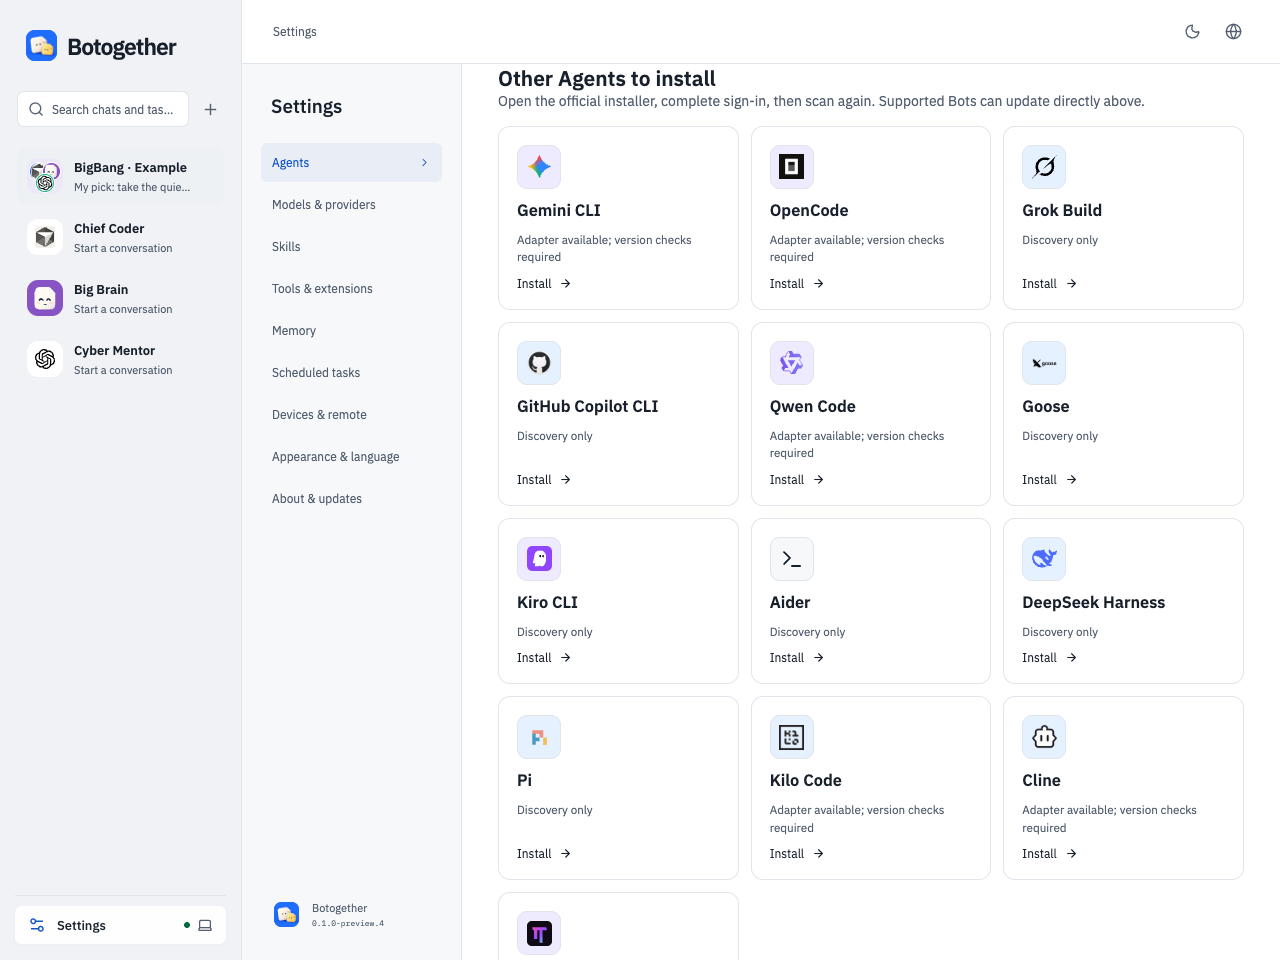
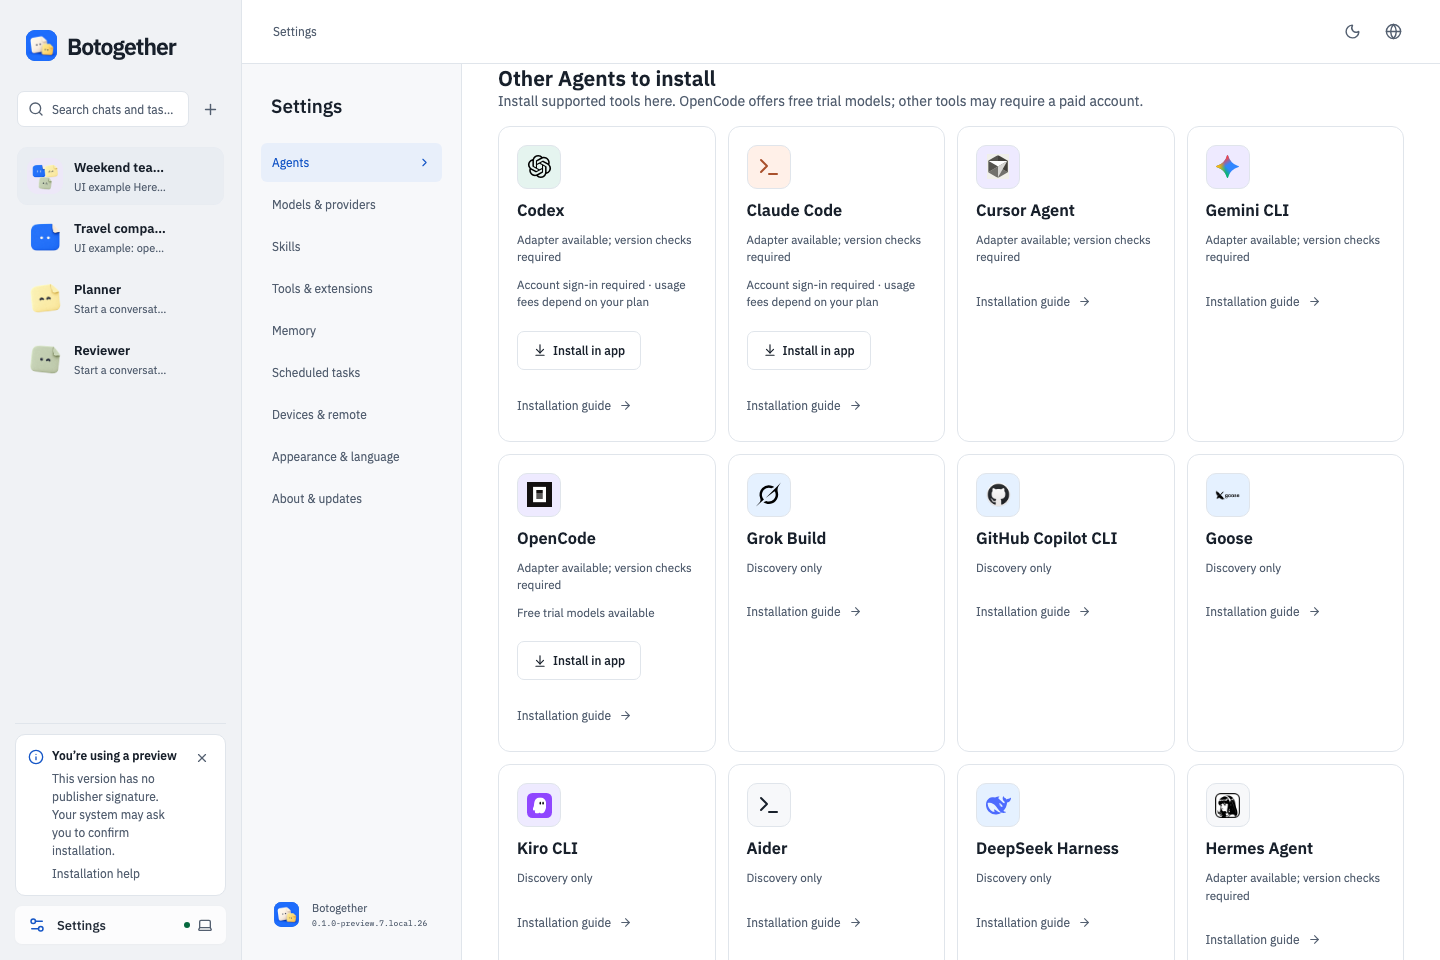
docs: prepare V2.3 desktop preview installation guide [skip ci]

diff --git a/README.md b/README.md
@@ -5,11 +5,22 @@
 
 Botogether brings the coding agents on your computer into direct and group chats. Give each bot a role, choose a project folder, and ask for a result. Your agents execute the work; Botogether keeps conversations, permissions, files and review history together.
 
-**Unsigned macOS / Windows preview:** [Download v0.1.0-preview.7 DMG](https://github.com/DmiyDing/botogether/releases/download/v0.1.0-preview.7/Botogether-0.1.0-preview.7-mac-arm64.dmg). Intel Mac preview.7 is experimental: isolated Rosetta daemon startup passed; native Intel GUI and upgrades remain pending. Windows remains on preview.2; no new Windows package is included. This is an unsigned, unnotarized public preview, not a stable release.
+**Historical public downloads (unsigned previews):** [Download v0.1.0-preview.7 DMG](https://github.com/DmiyDing/botogether/releases/download/v0.1.0-preview.7/Botogether-0.1.0-preview.7-mac-arm64.dmg). Intel Mac preview.7 is experimental: isolated Rosetta daemon startup passed; native Intel GUI and upgrades remain pending. Windows remains on preview.2; no new Windows package is included. This is an unsigned, unnotarized public preview, not a stable release.
+
+> [!IMPORTANT]
+> **First installation blocked? Read this first.** This preview has no Apple Developer ID signature/notarization or Windows publisher signature. Download only from the [official Releases](https://github.com/DmiyDing/botogether/releases) and compare the checksums.
+>
+> **Mac:** Drag Botogether into Applications and try opening it once → **System Settings → Privacy & Security → Open Anyway** beside the Botogether notice → confirm as prompted and open it again. [Apple's illustrated guide](https://support.apple.com/en-us/102445)
+>
+> **Windows:** For “Windows protected your PC,” verify the source, then choose **More info → Run anyway** when offered. If the option is missing, or Smart App Control or organizational policy blocks it, stop and report the exact notice; keep protections enabled. [Microsoft guidance](https://learn.microsoft.com/en-us/windows/apps/package-and-deploy/smartscreen-reputation)
+>
+> Do not disable Gatekeeper, SmartScreen or antivirus. A damaged-app or malware warning calls for checking the download and integrity, not dismissing the warning.
 
 This repository contains download documentation and release assets; application source is private. No private repository access, Node.js or npm is needed to install the desktop app. No npm package has been published.
 
 > **Download status:** All six Mac preview.7 attachments were downloaded anonymously in full and verified against the reviewed byte counts and SHA-256 hashes. Windows remains preview.2; no new Windows build or acceptance is included.
+
+> **V2.3 candidate — not published yet:** Mac Apple Silicon and Windows x64 installers have passed local validation, including native installation, free-model first tasks and upgrades. The screenshots below show local.26. The links below still point to historical public releases; they do not contain all of these changes. Please wait for the new release notes before downloading for the new onboarding flow.
 
 ## Why Botogether
 
@@ -19,25 +30,23 @@ This repository contains download documentation and release assets; application 
 
 ## Interface preview
 
-English-mode promotional examples. The group conversation is adapted from a supplied transcript and clearly labeled as an example; it does not claim a live model run. Browse the Agent catalog to choose your local tools.
+Captured from the **V2.3 local.26 interface** in English. These isolated UI examples contain no private conversations. Example dialogue and hand-written files illustrate the interface, not live AI delivery or performance claims.
 
-![Create your first assistant](assets/screenshots/en/welcome.png)
+![Start with a free assistant](assets/screenshots/en/welcome.png)
 
-**Create your assistant.** Connect an installed Agent and give the bot a role. The original paper mascot is a stable identity; animated avatars are future work.
+**No Agent installed? Start for free.** Install OpenCode inside the app, then choose an available free trial model. Paper companions greet, blink and follow the pointer; a still image cannot show the animation.
 
-![Group chat with your bot team](assets/screenshots/en/group.png)
+![Plan together in a group chat](assets/screenshots/en/group.png)
 
-**One conversation, multiple bots.** Use roles and mentions to coordinate work. This labeled discussion example does not prove a delivered project.
+**Your bots. One team.** Discuss ideas, assign roles and keep the conversation together. This dialogue is clearly marked as a UI example.
 
-![Explore local Agents](assets/screenshots/en/agents.png)
+![Install supported Agents inside the app](assets/screenshots/en/agents.png)
 
-**Bring your local tools.** Discover installed Agents and inspect their individual setup and control capabilities.
+**Set up without the detour.** OpenCode, Codex and Claude Code offer in-app installation on supported systems. Other entries have explicit installation guides. Installing an Agent does not include its account or paid model usage.
 
-![Create and preview visual deliverables](assets/screenshots/en/showcase.png)
+![Read and download a Markdown file](assets/screenshots/en/showcase.png)
 
-**Create, preview and download images.** English localized illustration of the user-supplied Chinese screenshot: a model produces a poster and the conversation offers an image preview and original download. This AI-translated illustration is not a real English model-run receipt. Image generation depends on the chosen Agent/model/tools; the task may still need verification.
-
-The first three screenshots use isolated examples; the final image is an AI-localized illustration of a user-authorized screenshot. See the release notes for the features available in each download.
+**Open a file and keep refining.** The current reader renders headings, checklists and tables, with source and download controls. This hand-written sample is not an AI-generated deliverable.
 
 ## What you can do
 
@@ -55,7 +64,7 @@ The first three screenshots use isolated examples; the final image is an AI-loca
 | --- | --- | --- |
 | Mac with Apple M-series chip | [v0.1.0-preview.7 DMG](https://github.com/DmiyDing/botogether/releases/download/v0.1.0-preview.7/Botogether-0.1.0-preview.7-mac-arm64.dmg) | Open the DMG, drag Botogether into Applications, then open it from Applications. |
 | Mac with Intel processor | [Experimental DMG](https://github.com/DmiyDing/botogether/releases/download/v0.1.0-preview.7/Botogether-0.1.0-preview.7-mac-x64.dmg) | Drag into Applications; preview.7 passed isolated Rosetta startup; native Intel GUI and upgrades remain pending. |
-| Windows x64 | [Experimental EXE](https://github.com/DmiyDing/botogether/releases/download/v0.1.0-preview.2/Botogether-0.1.0-preview.2-win-x64.exe) | Run the installer; unsigned, with GUI and upgrade validation pending. |
+| Windows x64 | [Awaiting the new preview](https://github.com/DmiyDing/botogether/releases) | The V2.3 candidate passed local validation. Historical preview.2 has a known language-resource/blank-window issue; it is not recommended for first use. |
 
 [Release notes](https://github.com/DmiyDing/botogether/releases/tag/v0.1.0-preview.7) · [ZIP alternative](https://github.com/DmiyDing/botogether/releases/download/v0.1.0-preview.7/Botogether-0.1.0-preview.7-mac-arm64.zip) · [SHA256SUMS](https://github.com/DmiyDing/botogether/releases/download/v0.1.0-preview.7/Botogether-0.1.0-preview.7-mac-arm64-SHA256SUMS.txt)
 
@@ -76,11 +85,13 @@ On Windows, use PowerShell `Get-FileHash -Algorithm SHA256 filename` to check th
 
 ## Your first task
 
-1. Open **Settings → Agents**. Botogether detects supported local installations. The desktop package does not bundle Codex, Claude or Cursor. Follow the official setup/sign-in links in the app, then scan again.
-2. Create a bot from the sidebar `+` menu. Choose a name and an available local agent.
-3. Open its chat and choose a project folder. Try: “Read this project and list three improvements. Do not change files yet.”
-4. Send your message and inspect any permission requests. Model use is billed by your agent/provider; Botogether does not include model credits.
-5. Inspect replies and files. To collaborate, create a group, choose members and a shared folder, then state who should implement and who should review.
+The following in-app installation flow is available in the validated V2.3 candidate; historical downloads may not include it.
+
+1. **No AI tools installed:** click **Start for free**. OpenCode downloads and is checked inside the app; no Node.js, npm or terminal is needed.
+2. Choose a currently available **free trial model**, then click **Start chatting**. The app rechecks availability and never silently switches to a paid model.
+3. **Already have an Agent:** create an assistant and select the detected tool. Complete account sign-in if requested.
+4. Try a small task: “Create a weekend checklist.” Open the file, then ask for a revision. Inspect permissions and the actual result.
+5. Add teammates when useful. Choose who should prepare the result and who should check it. More members can add usage and coordination costs.
 
 Read [Getting started](docs/getting-started.md), [Help and updates](docs/troubleshooting.md), and [Privacy](docs/privacy.md).
 
@@ -127,7 +138,7 @@ Botogether-owned software uses a [proprietary distribution license](LICENSE.md).
 
 ## Release status
 
-All three targets are public test previews. Earlier Apple Silicon candidates have local installation evidence; this release passed isolated packaged daemon checks and installer content verification. Final GUI/upgrade and native Intel validation remain pending; Windows evidence is for its older version. No Apple Developer ID / notarization or Windows publisher certificate is currently available.
+The V2.3 local.26 Apple Silicon Mac and Windows x64 candidates passed local native installation, free-model first tasks, package audits and upgrade acceptance. They have not been published; historical download links do not refer to these candidates. Intel Mac and Windows ARM64 were not accepted on native devices in this round. Apple Developer ID / notarization and Windows publisher signing are unavailable; this must be disclosed for a public preview, which is not a production-stable release.
 
 ## Acknowledgments
 

diff --git a/docs/getting-started.md b/docs/getting-started.md
@@ -2,17 +2,21 @@
 
 ## A first useful result / 第一个有用的结果
 
-Apple Silicon Mac users can [download v0.1.0-preview.5 DMG](https://github.com/DmiyDing/botogether/releases/download/v0.1.0-preview.5/Botogether-0.1.0-preview.5-mac-arm64.dmg). Open it, drag Botogether into Applications, and read the unsigned-preview installation help if macOS blocks the first launch. Choose Intel Mac preview.5 or Windows x64 preview.2 experimental downloads from the [release page](https://github.com/DmiyDing/botogether/releases); Windows GUI and upgrades remain pending. Repository source archives are not application installers.
+Get the available installers from the [release page](https://github.com/DmiyDing/botogether/releases) and read the [unsigned-preview installation help](troubleshooting.md). The V2.3 local.26 candidate is validated locally but not yet public; historical downloads may not include the flow below. The old Windows preview.2 has a known blank-window issue; wait for the new preview rather than using it for first setup. Repository source archives are not installers.
 
-Apple Silicon Mac 用户可[下载 v0.1.0-preview.5 DMG](https://github.com/DmiyDing/botogether/releases/download/v0.1.0-preview.5/Botogether-0.1.0-preview.5-mac-arm64.dmg)，打开并拖入 Applications。如果 macOS 拦截首次启动，请查看未签名预览版的安装帮助。Intel Mac preview.5 / Windows x64 preview.2 可从[发布页](https://github.com/DmiyDing/botogether/releases)选择实验性试用包，Windows 界面与升级仍待验证；仓库源码压缩包不能安装应用。
+从[发行页](https://github.com/DmiyDing/botogether/releases)选择安装包，并先看[未签名预览安装帮助](troubleshooting.md)。V2.3 local.26 候选已通过本地验收但尚未公开，旧版不一定有下述流程。旧 Windows preview.2 存在已知白屏问题，请等待新版预览，不建议用于首次体验。Source code 压缩包不是安装包。
 
-Open **Settings → Agents**, check local installations and follow your agent’s login guidance. Detection of a version does not prove authentication or every control capability.
+**No Agent installed:** click **Start for free** → wait for OpenCode to download and be checked inside the app → choose an available free trial model → **Start chatting**. No Node.js, npm or terminal is needed. Availability is rechecked and never silently replaced by a paid model.
 
-打开**设置 → 智能体**检测安装，按所选智能体的引导完成登录。检测到版本，不等于已登录或所有控制能力都已验证。
+**没装过 AI 工具：** 点 **免费开始** → 等待应用下载并检查 OpenCode → 选择可用免费体验模型 → **开始聊天**。不需要 Node.js、npm 或终端。免费名额会重新检查，不会自动改用付费模型。
 
-Create a bot from `+`. Choose a local agent; optional instructions describe its long-term role. Open the chat and choose the folder for this conversation. The selected folder determines where tasks execute; selecting a bot alone does not select a project. Start with a read-only request and inspect the answer before requesting changes.
+**Already have an Agent:** create an assistant from `+` and select a detected tool. In **Settings → Agents**, OpenCode, Codex and Claude Code have in-app installers on supported systems; other tools have explicit installation guides. Installation does not include account sign-in, paid usage or proof of every tool capability.
 
-从 `+` 创建助手，选择本地智能体，可选填写长期职责。打开聊天后选择项目目录；任务在这个会话绑定的目录执行，不是只选助手就选好了项目。先试只读请求，确认结果后再要求修改。
+**已有 AI 工具：** 从 `+` 创建助手，选择检测到的工具。**设置 → 智能体**可在支持的系统中一键安装 OpenCode、Codex、Claude Code；其他工具明确提供安装说明。安装完成不等于已登录、赠送付费额度或验证了全部工具能力。
+
+Choose the folder for the conversation, try a small task and inspect its output. You can then add a requirement and continue editing. Use the normal permission controls when the Agent needs access.
+
+选好会话文件夹，先试一个小任务并点开结果检查，再补充要求继续修改。需要访问权限时按正常授权入口处理。
 
 ## Groups / 群聊
 
@@ -42,9 +46,9 @@ In preview.5, a standalone request such as “Switch to MODEL model” in a bot 
 
 preview.5中，在助手单聊发送“请切换 MODEL 模型”，应用会从实际目录唯一匹配并保存；没有匹配或名称不唯一时打开选择器。简短标签的提示仍保留完整原生ID，配置用于后续请求，不热切换当前任务。
 
-If no agent is installed, the setup guide offers OpenCode as an experimental starting point. Some models may be free under the provider’s current conditions. Install using the guide, scan again and choose an actual returned model; installation, login and paid-model selection are not automatic. No models: refresh the list, check the installed version and service access, or choose another agent.
+In the V2.3 candidate, OpenCode setup runs inside the app. Free options are checked against current availability; no paid fallback is selected automatically. Other Agents may require an existing account or subscription.
 
-没有安装Agent时，可从引导中的实验性OpenCode入口开始；部分模型是否免费取决于服务方当前条件。按指南安装、重新检测，再选择实际返回的模型；不会自动安装、登录或改用收费模型。没有模型时可刷新目录、检查工具版本与服务访问，或选择其他Agent。
+V2.3 候选可在应用内安装 OpenCode，免费选项会核对当前可用性，不会自动回退付费模型；其他 Agent 可能需要已有账号或订阅。
 
 Handled permissions and finished execution details are collapsed; pending decisions remain visible. Expand the timeline for individual events. **Retry** immediately creates a new request with the original goal and checks using current bot settings, only after the earlier process is confirmed stopped. It may repeat external effects; inspect the earlier result first.
 

diff --git a/docs/troubleshooting.md b/docs/troubleshooting.md
@@ -28,9 +28,9 @@ Preview builds check published prereleases and stable releases; stable builds ch
 
 ## Unsigned preview installation / 未签名测试版安装
 
-Preview release notes must state signing status and supported OS/architecture. A checksum confirms matching bytes, not that a file is safe or its publisher is authenticated. Download only from the official release page. On macOS, after verifying the source, use the per-app **Open Anyway** option in Privacy & Security if offered; see [Apple’s instructions](https://support.apple.com/en-us/102445). Do not disable Gatekeeper or remove quarantine automatically. On Windows, SmartScreen or [Smart App Control](https://learn.microsoft.com/en-us/windows/apps/develop/smart-app-control/overview) may block unsigned apps. If policy prevents installation, keep protections enabled and wait for a compatible signed release; do not turn off antivirus or security controls. Report the exact warning with personal details redacted.
+Preview release notes must state signing status and supported OS/architecture. A checksum confirms matching bytes, not that a file is safe or its publisher is authenticated. Download only from the official release page. On macOS, after verifying the source, use the per-app **Open Anyway** option in Privacy & Security if offered; see [Apple’s instructions](https://support.apple.com/en-us/102445). Do not disable Gatekeeper or remove quarantine automatically. On Windows, after verifying the official source, the ordinary “Windows protected your PC” prompt may offer **More info → Run anyway**. If offered, this is a per-app choice. SmartScreen or [Smart App Control](https://learn.microsoft.com/en-us/windows/apps/develop/smart-app-control/overview) may block unsigned apps. If policy prevents installation, keep protections enabled and wait for a compatible signed release; do not turn off antivirus or security controls. Report the exact warning with personal details redacted.
 
-测试版说明必须标明签名状态及支持的系统／架构。摘要仅证明文件字节一致，不代表文件安全或发布者已认证；只从官方发布页下载。macOS 核对来源后，如系统提供该选项，可按 [Apple 官方说明](https://support.apple.com/zh-cn/102445)在“隐私与安全性”中对这一个应用选择“仍要打开”，不关闭 Gatekeeper、不自动清除隔离属性。Windows 的 SmartScreen 或 [Smart App Control](https://learn.microsoft.com/en-us/windows/apps/develop/smart-app-control/overview)可能阻止未签名应用；若安全策略不允许，请保留保护并等待兼容的签名版本，不关闭杀毒软件或安全控制。反馈时提供警告原文并遮盖私人信息。
+测试版说明必须标明签名状态及支持的系统／架构。摘要仅证明文件字节一致，不代表文件安全或发布者已认证；只从官方发布页下载。macOS 核对来源后，如系统提供该选项，可按 [Apple 官方说明](https://support.apple.com/zh-cn/102445)在“隐私与安全性”中对这一个应用选择“仍要打开”，不关闭 Gatekeeper、不自动清除隔离属性。Windows 普通“Windows 已保护你的电脑”提示如提供相应按钮，核对官方来源后可选择 **“更多信息”→“仍要运行”**。Windows 的 SmartScreen 或 [Smart App Control](https://learn.microsoft.com/en-us/windows/apps/develop/smart-app-control/overview)可能阻止未签名应用；若安全策略不允许，请保留保护并等待兼容的签名版本，不关闭杀毒软件或安全控制。反馈时提供警告原文并遮盖私人信息。
 
 ## Image preview fails / 图片预览失败
 
